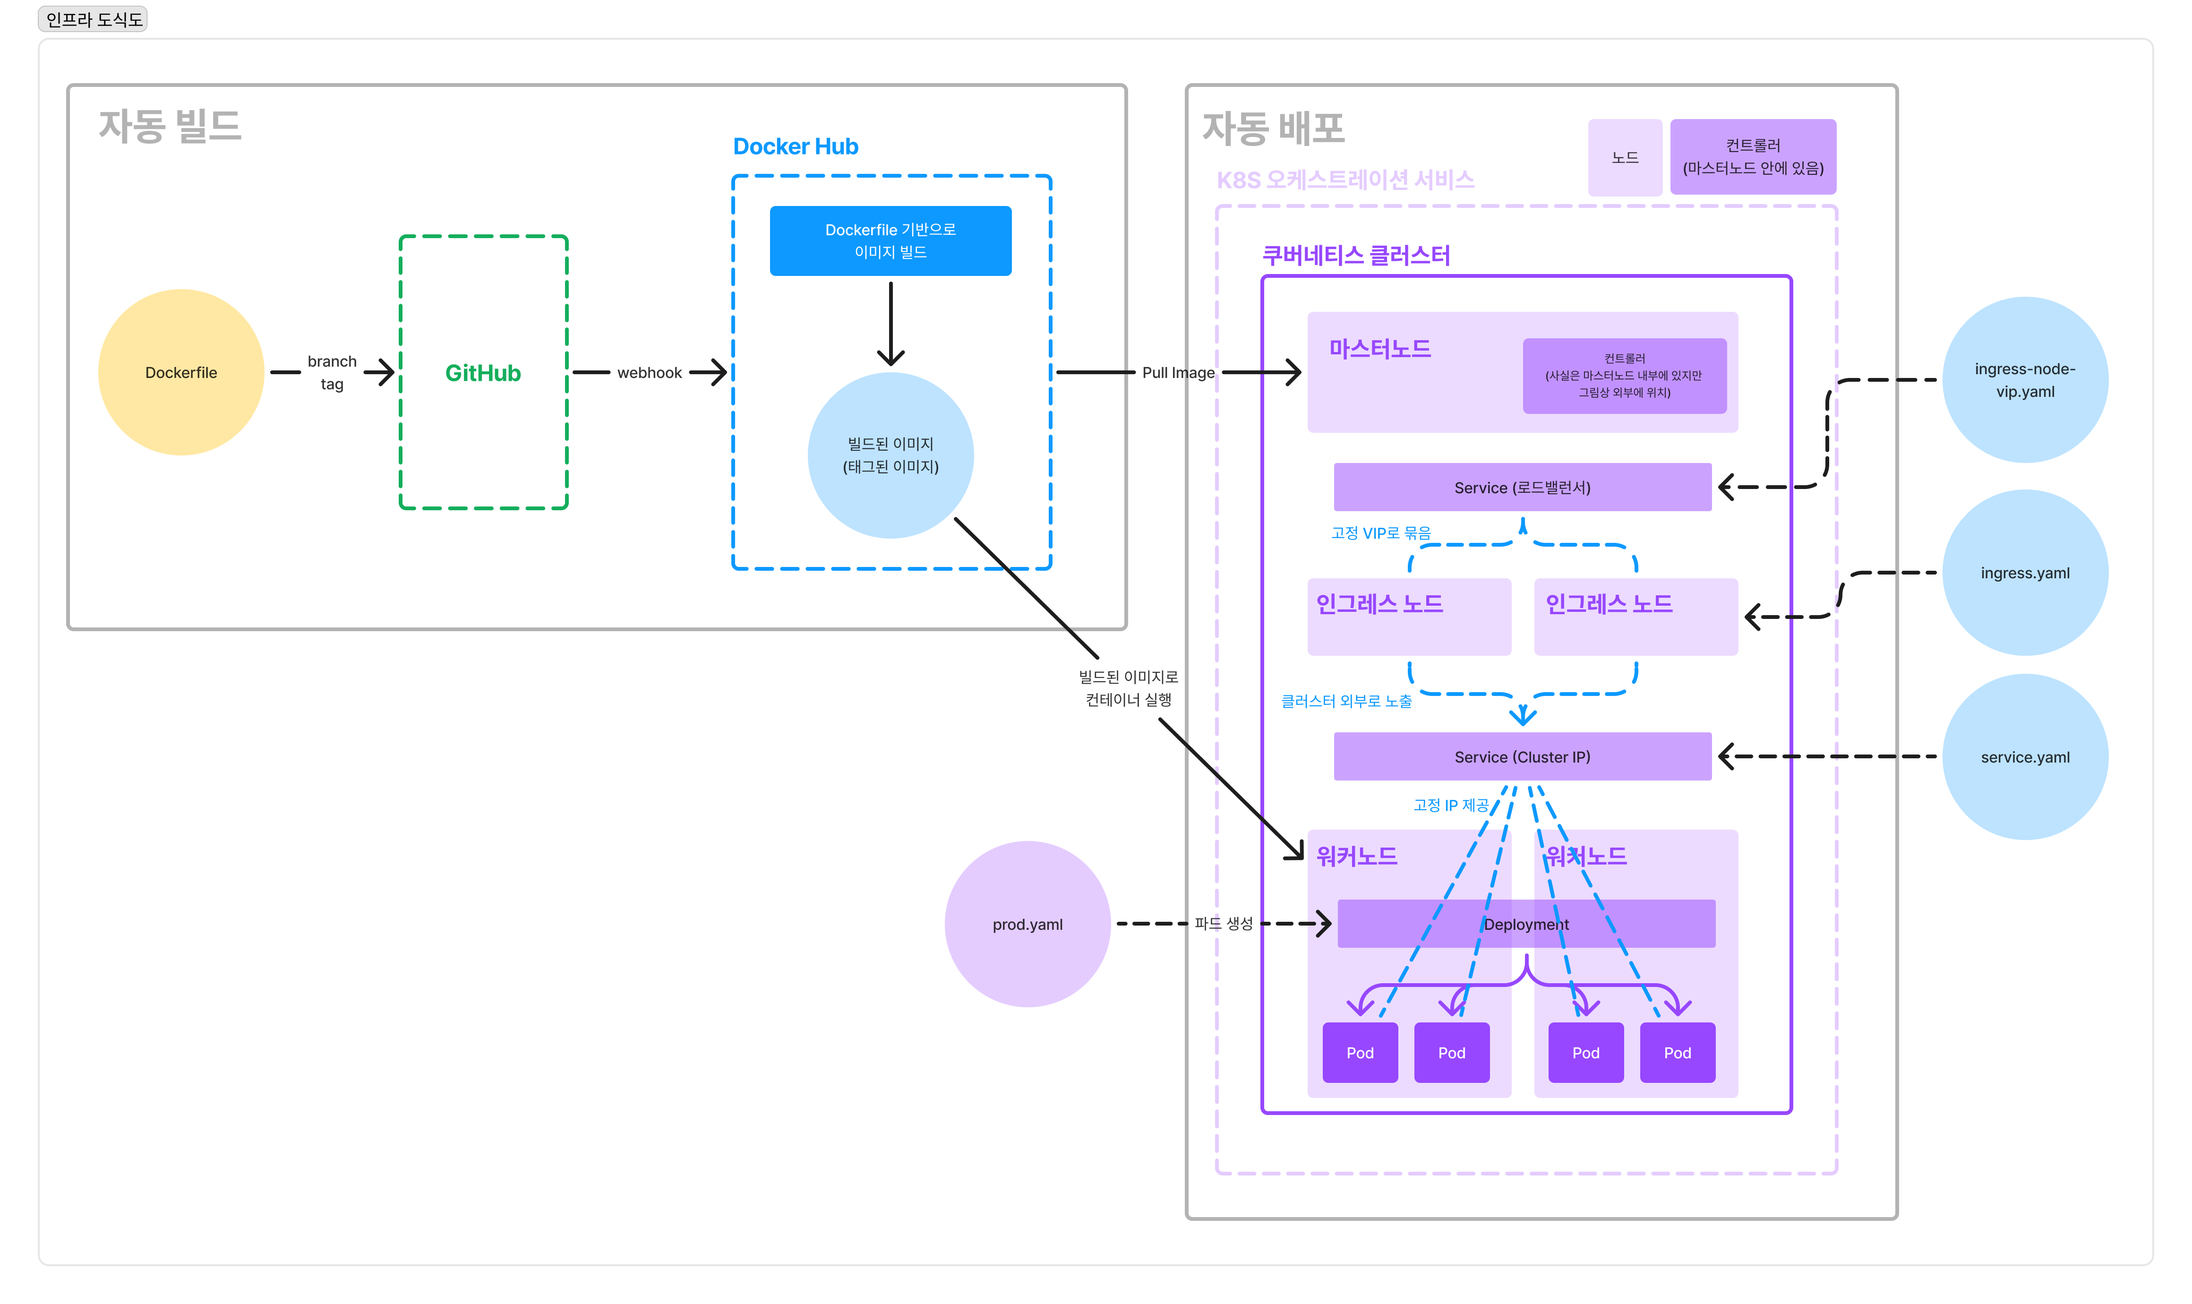
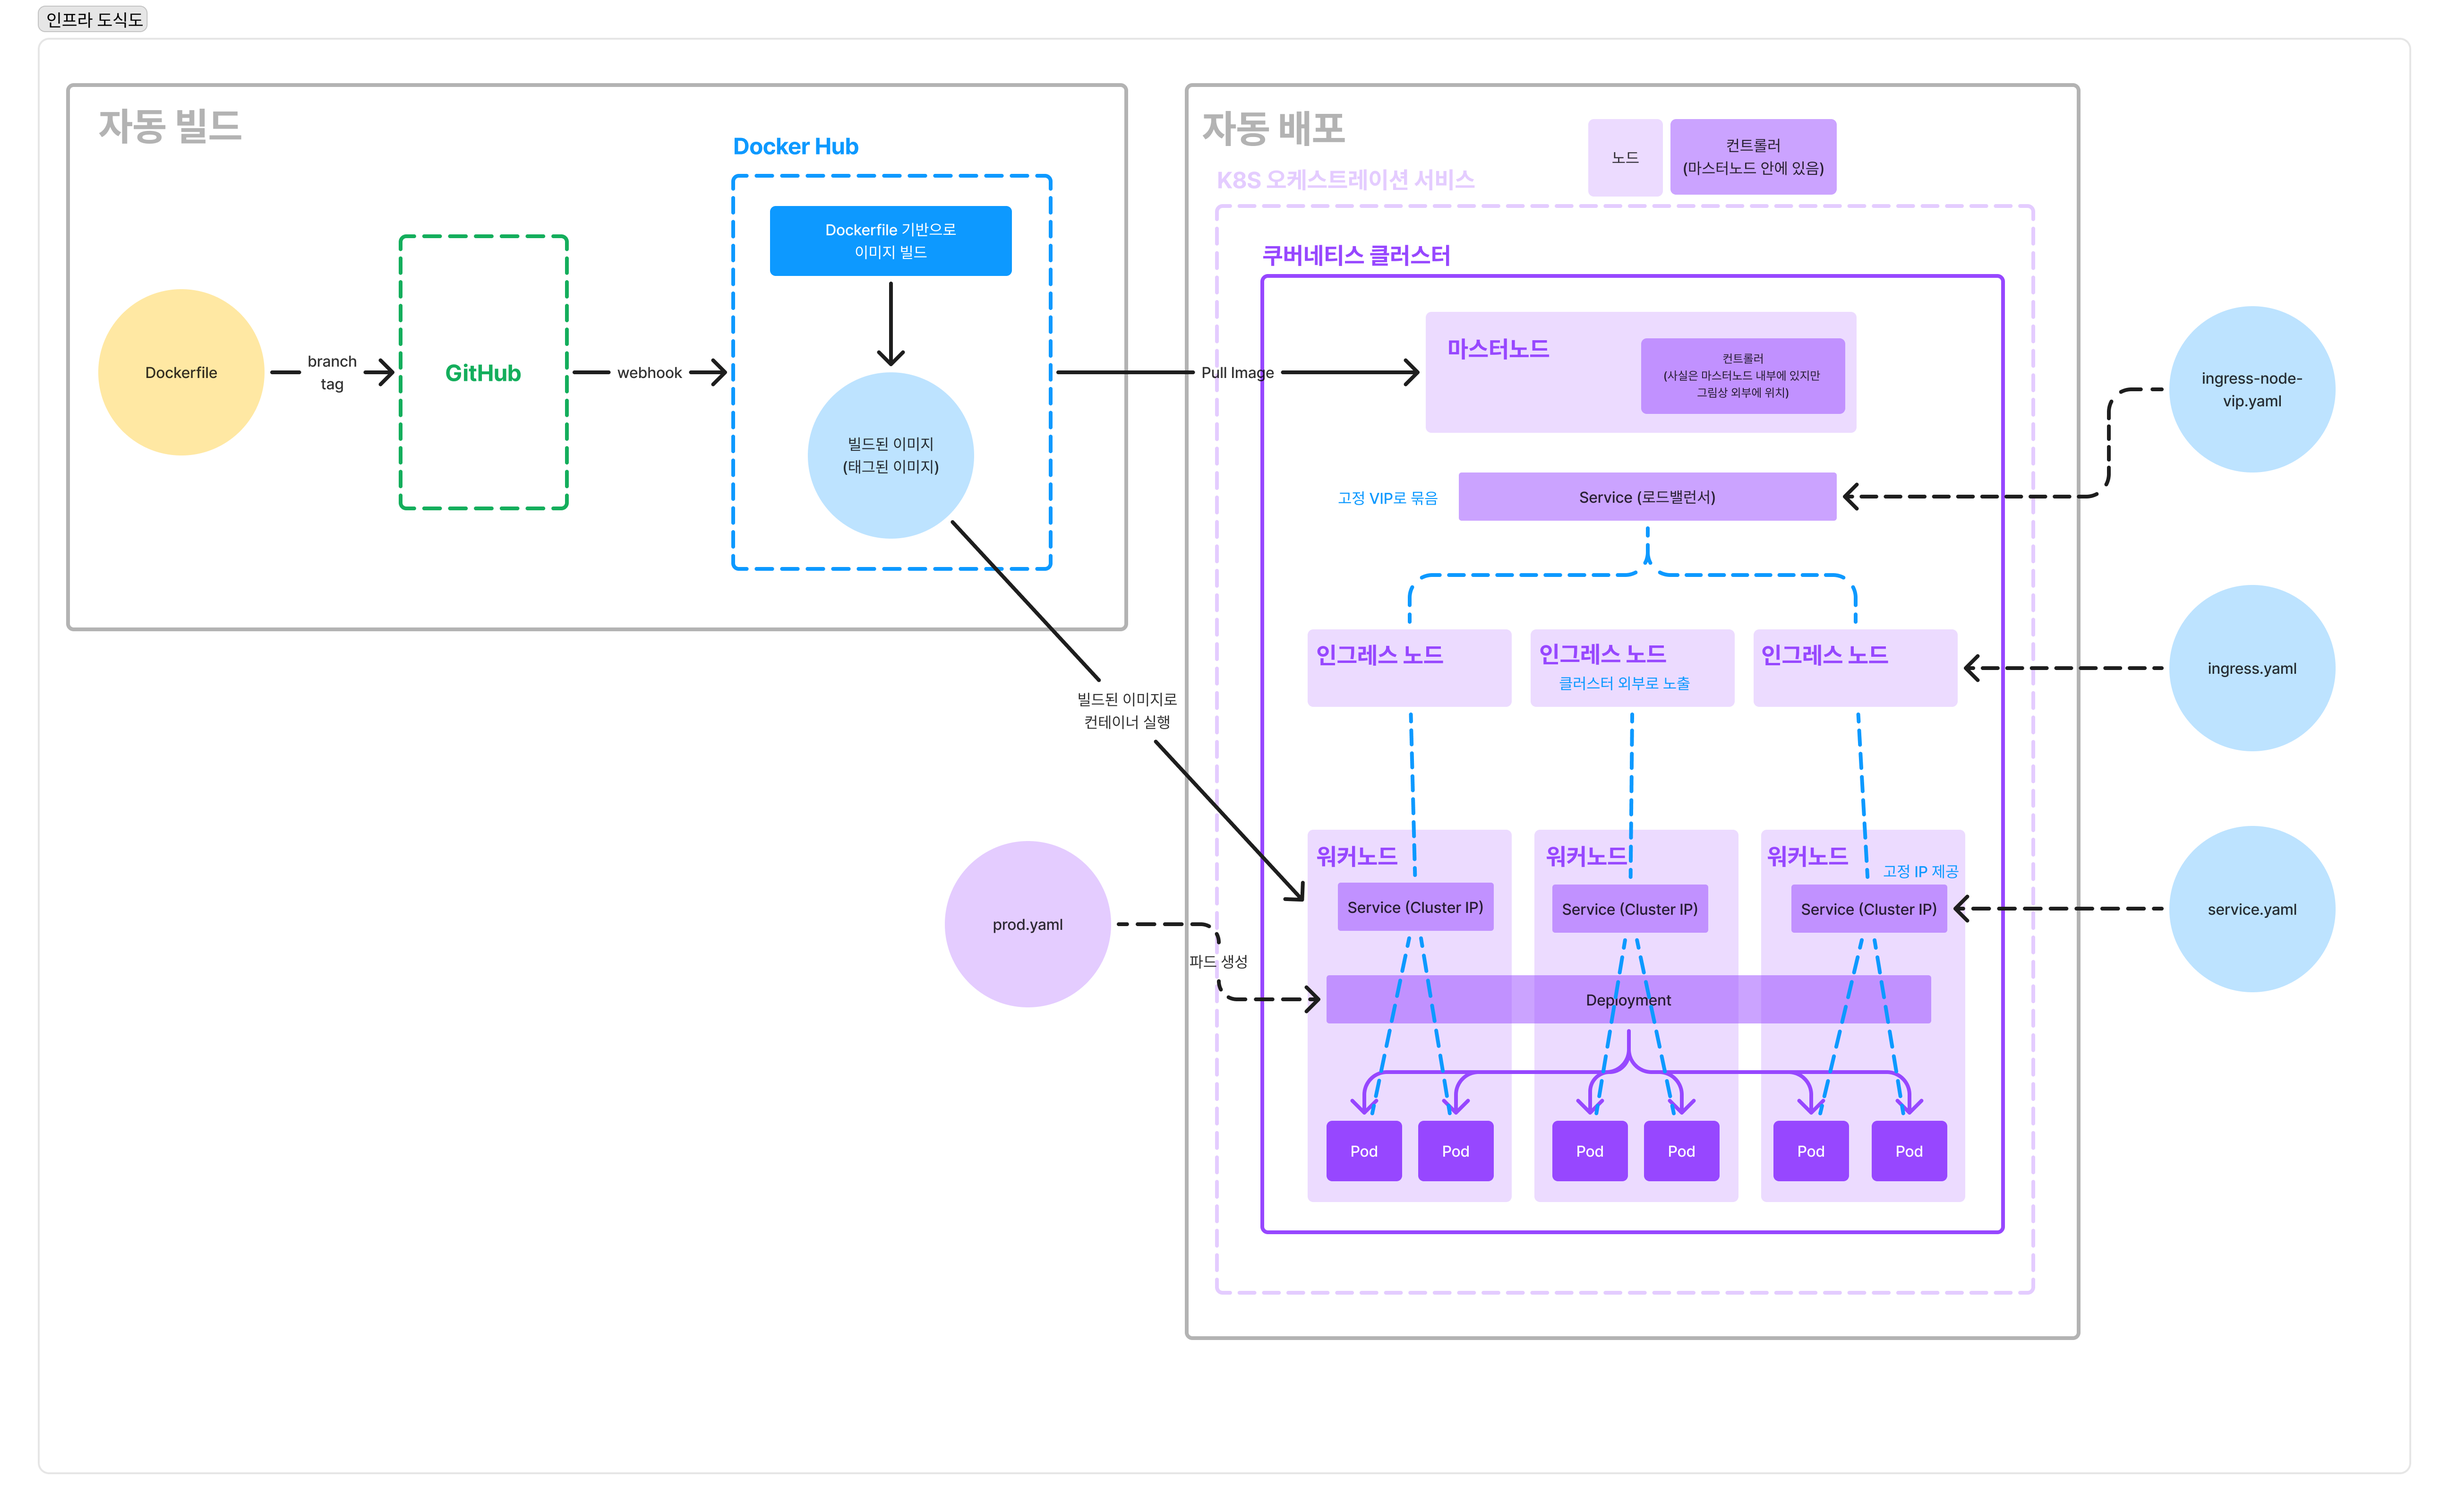
setting-infra 수정

diff --git a/src/pages/posts/web/setting-infra.md b/src/pages/posts/web/setting-infra.md
@@ -177,8 +177,8 @@ kubectl logs -f {파드 이름}
 
 서비스(컨트롤러)에 대한 스펙을 명시한다.
 
-- **서비스**: 고정된 단일 엔드포인트를 제공해주는 역할. 마스터 노드의 컨트롤러에 해당됨.
-- **파드**: 워커노드 내에서 실제 아스트로 서버가 실행되는 곳을 파드라고함. 파드들은 새로 생성되고 삭제되고를 반복하기 때문에 IP가 계속 바뀜. 때문에 고정된 IP를 설정하기 위해서는 서비스를 사용해야함. 아스트로 서버가 실행중인 파드에 접근하고 싶다면 고정된 IP(클러스터 IP) 를 통해서 접근 가능. (단, 클러스터 내부에서만)
+- **서비스**: 고정된 단일 엔드포인트를 제공해주는 역할. 마스터 노드의 컨트롤러에 해당됨. (한 워커 노드 안에서만 유효)
+- **파드**: 워커노드 내에서 실제 아스트로 서버가 실행되는 곳을 파드라고함. 파드들은 새로 생성되고 삭제되고를 반복하기 때문에 IP가 계속 바뀜. 때문에 고정된 IP를 설정하기 위해서는 서비스를 사용해야함. 아스트로 서버가 실행중인 파드에 접근하고 싶다면 고정된 IP(클러스터 IP) 를 통해서 접근 가능. (단, 클러스터 내부에서 한 워커 노드 안에서만 서비스가 요청을 분배해줌.)
 
 아래와 같이 kubectl(클러스터의 마스터노드에서 워커노드의 파드들을 관리하는 API를 제공하는 CLI)를 통해서 서비스를 클러스터에 생성할 수 있다.
 
